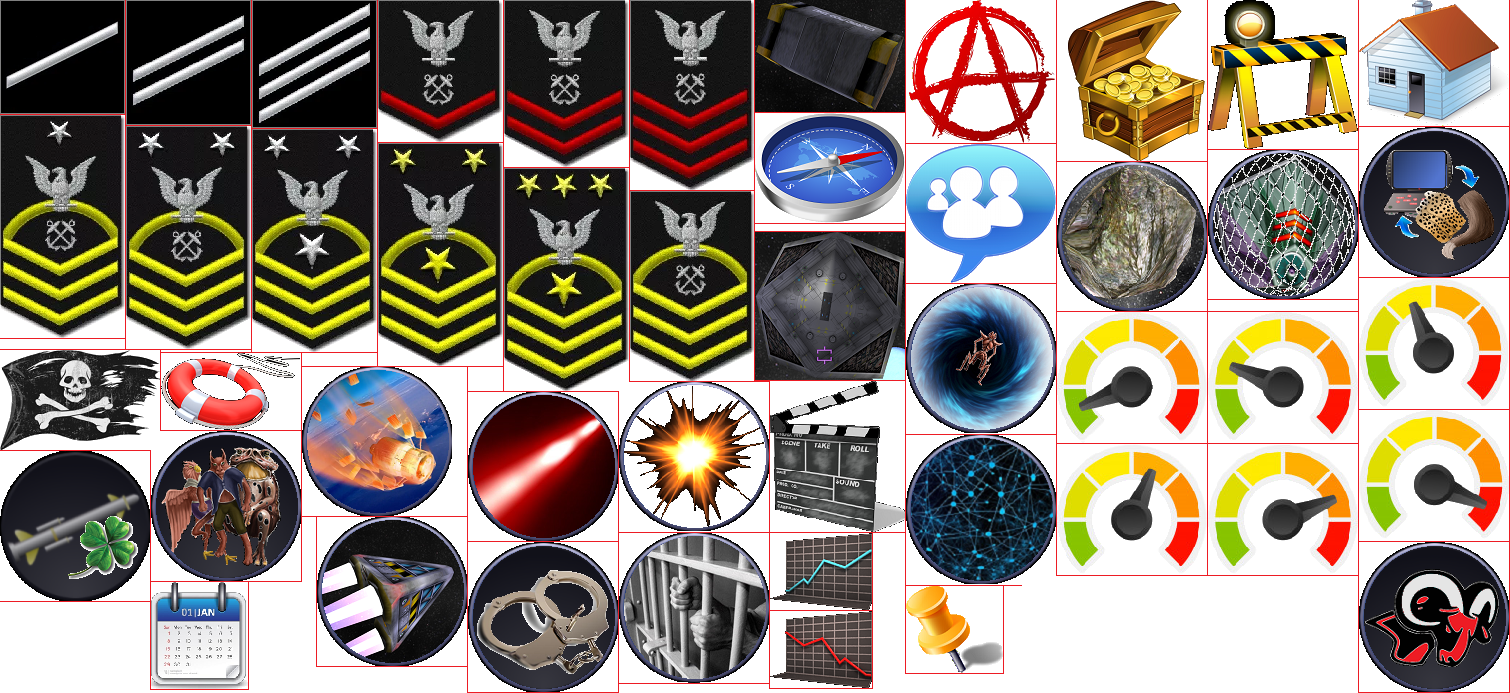
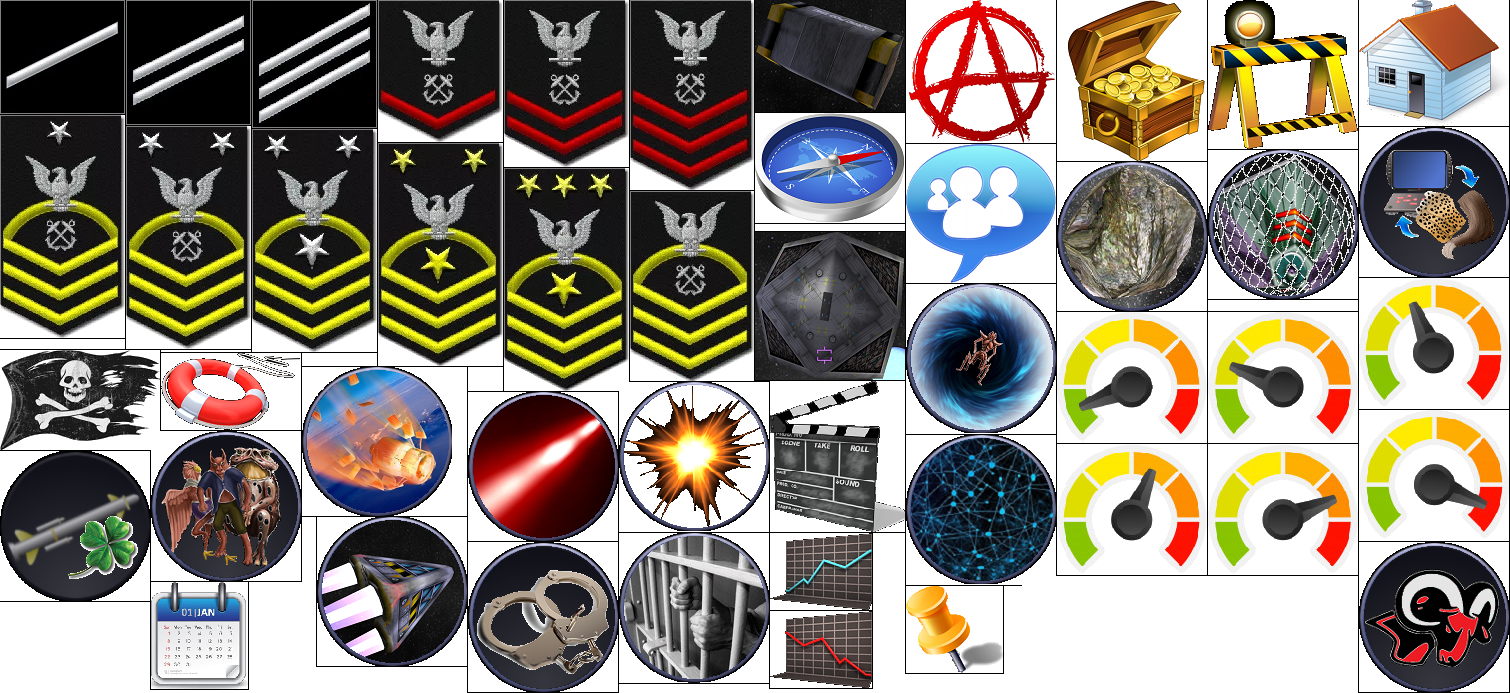
- fixed: Appearance of inhabitant image on planet screen - fixed: Appearance of medal images on trophies screen

Changed region(s): [[0.996, 0.0, 1.0, 1.0], [0.8715, 0.4242, 0.9026, 0.4545]]

diff --git a/src/de/phbouillon/android/games/alite/screens/canvas/AchievementsScreen.java b/src/de/phbouillon/android/games/alite/screens/canvas/AchievementsScreen.java
@@ -23,6 +23,7 @@ import android.graphics.Point;
 import de.phbouillon.android.framework.Graphics;
 import de.phbouillon.android.framework.Input.TouchEvent;
 import de.phbouillon.android.framework.Pixmap;
+import de.phbouillon.android.framework.impl.AndroidGame;
 import de.phbouillon.android.framework.impl.ColorFilterGenerator;
 import de.phbouillon.android.games.alite.*;
 import de.phbouillon.android.games.alite.colors.AliteColor;
@@ -229,7 +230,7 @@ public class AchievementsScreen extends AliteScreen {
 			SpriteData data = Alite.get().getTextureManager().getSprite(TEXTURE_FILE, spriteName);
 			if (data != null) {
 				if (!pics.containsKey(spriteName)) {
-					pics.put(spriteName, getImagePart(data, "medals",  spriteName, -1, -1));
+					pics.put(spriteName, getImagePart(data, "medals",  spriteName));
 				}
 				return pics.get(spriteName);
 			}
@@ -238,23 +239,25 @@ public class AchievementsScreen extends AliteScreen {
 		return pics.get(achieved ? "trophy" : ICON_GRAY_TROPHY);
 	}
 
-	private Pixmap getImagePart(SpriteData data, String textureName, String spriteName, int width, int height) {
+	private Pixmap getImagePart(SpriteData data, String textureName, String spriteName) {
 		Pixmap pixmap = pics.get(textureName);
-		AliteLog.d("getImagePart", textureName + ":" + spriteName + " (" + data.x * pixmap.getWidth() +
-			"," +  data.y * pixmap.getHeight() + ", "  + data.origWidth + "," + data.origHeight + ")");
-		Pixmap medal = game.getGraphics().newPixmap(Bitmap.createBitmap(pixmap.getBitmap(),
-			(int) (data.x * pixmap.getWidth()), (int) (data.y * pixmap.getHeight()),
-			(int) data.origWidth, (int) data.origHeight), spriteName);
-		if (width != -1 && height != -1) {
-			medal = getResizedPixmapPart(medal, 0, 0, spriteName, width, height);
-		}
-		return medal;
+		int x = (int) (data.x * pixmap.getWidth() + 0.99f);
+		int y = (int) (data.y * pixmap.getHeight() + 0.99f);
+		int w = (int) (data.origWidth);
+		int h = (int) (data.origHeight);
+		Bitmap b = pixmap.getBitmap();
+		AliteLog.d("getImagePart", textureName + ":" + spriteName + " (" + x + "," +  y + ", " +
+			w + "," + h + ") (" + b.getWidth() + "," + b.getHeight() + ")");
+		b = createScaledBitmap(b, x, y, w, h);
+		return game.getGraphics().newPixmap(b, spriteName, (int) (b.getWidth() / AndroidGame.scaleFactor),
+			(int) (b.getHeight() / AndroidGame.scaleFactor));
 	}
 
 	private Pixmap getFromButtons(String spriteName) {
 		if (!pics.containsKey(spriteName)) {
-			pics.put(spriteName, getImagePart(Alite.get().getTextureManager().getSprite(AliteButtons.TEXTURE_FILE, spriteName),
-				"buttons",  spriteName, 150, 150));
+			pics.put(spriteName, getResizedPixmapPart(getImagePart(Alite.get().getTextureManager().
+				getSprite(AliteButtons.TEXTURE_FILE, spriteName), "buttons",  spriteName),
+				0, 0, spriteName, 150, 150));
 		}
 		return pics.get(spriteName);
 	}
@@ -310,10 +313,11 @@ public class AchievementsScreen extends AliteScreen {
 			Alite.get().getTextureManager().addTexture(AliteButtons.TEXTURE_FILE);
 			pics.put("buttons", game.getGraphics().newPixmap(AliteButtons.TEXTURE_FILE));
 
-			Pixmap p = game.getGraphics().newPixmap(Bitmap.createBitmap(Assets.achievementsIcon.getBitmap(),
+			Pixmap p = game.getGraphics().newPixmap(createScaledBitmap(Assets.achievementsIcon.getBitmap(),
 				36, 14, 126, 128), "medal_trophy");
 			pics.put("trophy", p);
-			p = game.getGraphics().newPixmap(p.getBitmap(), ICON_GRAY_TROPHY);
+			p = game.getGraphics().newPixmap(p.getBitmap(), ICON_GRAY_TROPHY,
+				(int)(p.getWidth() / AndroidGame.scaleFactor), (int)(p.getHeight() / AndroidGame.scaleFactor));
 			pics.put(ICON_GRAY_TROPHY, p);
 			game.getGraphics().applyFilterToPixmap(p, ColorFilterGenerator.adjustColor(-100, 0)); // grayscale
 			addPictures("ext_new");
@@ -379,8 +383,13 @@ public class AchievementsScreen extends AliteScreen {
 
 	private Pixmap getResizedPixmapRect(Pixmap pixmap, int x, int y, int width, int height,
 			String name, int destWidth, int destHeight) {
-		return game.getGraphics().newPixmap(Bitmap.createBitmap(pixmap.getBitmap(), x, y, width, height),
+		return game.getGraphics().newPixmap(createScaledBitmap(pixmap.getBitmap(), x, y, width, height),
 			name, destWidth, destHeight);
+	}
+
+	private Bitmap createScaledBitmap(Bitmap bitmap, int x, int y, int width, int height) {
+		return Bitmap.createBitmap(bitmap, (int) (x * AndroidGame.scaleFactor), (int) (y * AndroidGame.scaleFactor),
+			(int) (width * AndroidGame.scaleFactor), (int) (height * AndroidGame.scaleFactor));
 	}
 
 	@Override

diff --git a/src/de/phbouillon/android/games/alite/screens/canvas/PlanetScreen.java b/src/de/phbouillon/android/games/alite/screens/canvas/PlanetScreen.java
@@ -25,6 +25,7 @@ import android.graphics.Paint;
 import android.text.format.DateUtils;
 import de.phbouillon.android.framework.Graphics;
 import de.phbouillon.android.framework.Pixmap;
+import de.phbouillon.android.framework.impl.AndroidGame;
 import de.phbouillon.android.framework.impl.ColorFilterGenerator;
 import de.phbouillon.android.framework.math.Vector3f;
 import de.phbouillon.android.games.alite.*;
@@ -128,44 +129,52 @@ public class PlanetScreen extends AliteScreen {
 			if (inhabitantGenerationStep == 0 && inhabitantLayer == null) {
 				initImage();
 				composePart(g.newPixmap("alien_icons/treeard.png"), null);
+				finishImage();
 			}
-		} else {
-			String basePath = "alien_icons/" + getRace(inhabitantCode.charAt(SystemData.INHABITANT_INDEX_TYPE)) +
-				getType(inhabitantCode.charAt(SystemData.INHABITANT_INDEX_APPEARANCE));
-			if (inhabitantGenerationStep == 0 && inhabitantLayer == null) {
-				initImage();
-				composePart(g.newPixmap(basePath + "base.png"),
-					adjustColor(inhabitantCode.charAt(SystemData.INHABITANT_INDEX_COLOR)));
-			} else if (inhabitantGenerationStep == 1) {
-				composePart(g.newPixmap(basePath + "details.png"), null);
-			}
+			return;
 		}
-		if (inhabitantGenerationStep == 2) {
-			inhabitantLayer = game.getGraphics().newPixmap(composedImage, "inhabitantImage");
-			inhabitantGenerationStep = -1;
+
+		String basePath = "alien_icons/" + getRace(inhabitantCode.charAt(SystemData.INHABITANT_INDEX_TYPE)) +
+			getType(inhabitantCode.charAt(SystemData.INHABITANT_INDEX_APPEARANCE));
+		if (inhabitantGenerationStep == 0 && inhabitantLayer == null) {
+			initImage();
+			composePart(g.newPixmap(basePath + "base.png"),
+				adjustColor(inhabitantCode.charAt(SystemData.INHABITANT_INDEX_COLOR)));
+		} else if (inhabitantGenerationStep == 1) {
+			composePart(g.newPixmap(basePath + "details.png"), null);
+		} else if (inhabitantGenerationStep == 2) {
+			finishImage();
 		}
 		if (inhabitantGenerationStep >= 0) {
 			inhabitantGenerationStep++;
 		}
 	}
 
+	private void finishImage() {
+		inhabitantLayer = game.getGraphics().newPixmap(composedImage, "inhabitantImage",
+			(int)(composedImage.getWidth() / AndroidGame.scaleFactor), (int)(composedImage.getHeight() / AndroidGame.scaleFactor));
+		inhabitantGenerationStep = -1;
+	}
+
 	public static Bitmap computeImage(String inhabitantCode) {
 		PlanetScreen screen = new PlanetScreen();
 		screen.addPictures(BACKGROUND);
+		disposeInhabitantLayers();
 		if (inhabitantCode.charAt(SystemData.INHABITANT_INDEX_RACE) != SystemData.INHABITANT_RACE_HUMAN) {
 			screen.inhabitantGenerationStep = 0;
-			for (int i = 0; i <= 2; i++) {
+			while (screen.inhabitantGenerationStep >= 0) {
 				screen.computeAlienImage(inhabitantCode);
 			}
 		} else {
 			screen.inhabitantGenerationStep = 1;
-			for (int i = 1; i <= 14; i++) {
+			while (screen.inhabitantGenerationStep >= 0) {
 				screen.computeHumanImage(inhabitantCode);
 			}
 		}
 		Pixmap background = screen.pics.get(BACKGROUND);
 		Bitmap bitmap = Bitmap.createBitmap(inhabitantLayer.getBitmap(), 0, 0,
-			background.getWidth(), background.getHeight());
+			(int) (background.getWidth() * AndroidGame.scaleFactor),
+			(int) (background.getHeight() * AndroidGame.scaleFactor));
 		screen.dispose();
 		return bitmap;
 	}
@@ -355,13 +364,11 @@ public class PlanetScreen extends AliteScreen {
 			case 10: composePart(load("mouths",   hig_subDir, hig_mouthType   + 1, 1), null); break;
 			case 11: composePart(load("mouths",   hig_subDir, hig_mouthType   + 1, 2), hig_lipModifier); break;
 			case 12: composePart(load("eyebrows", hig_subDir, hig_eyebrowType + 1, 1), hig_hairModifier); break;
-			case 13: composePart(load("hair",     hig_subDir, hig_hairType    + 1, 2), hig_hairModifier); break;
+			case 13: composePart(load("hair",     hig_subDir, hig_hairType    + 1, 2), hig_hairModifier);
+				finishImage();
+				return;
 		}
 		inhabitantGenerationStep++;
-		if (inhabitantGenerationStep == 14) {
-			inhabitantLayer = game.getGraphics().newPixmap(composedImage, "inhabitantImage");
-			inhabitantGenerationStep = -1;
-		}
 	}
 
 	private void displayInhabitants() {
@@ -482,7 +489,6 @@ public class PlanetScreen extends AliteScreen {
 
 	@Override
 	public void loadAssets() {
-		Graphics g = game.getGraphics();
 		addPictures("cobra_right", BACKGROUND);
 		super.loadAssets();
 	}

diff --git a/src/de/phbouillon/android/framework/impl/AndroidGraphics.java b/src/de/phbouillon/android/framework/impl/AndroidGraphics.java
@@ -45,7 +45,7 @@ public class AndroidGraphics implements Graphics {
 	private final Canvas converterCanvas = new Canvas();
 	private final Paint paint = new Paint();
 	private final Canvas canvas = new Canvas();
-	private final Paint filterPaint = new Paint();
+	private final Paint filterPaint = new Paint(Paint.FILTER_BITMAP_FLAG);
 	private final Matrix scaleMatrix = new Matrix();
 	private final Options options = new Options();
 	private final FileIO fileIO;
@@ -59,7 +59,6 @@ public class AndroidGraphics implements Graphics {
 		circleBuffer = GlUtils.allocateFloatBuffer(64 * 8);
 		colorBuffer = GlUtils.allocateFloatBuffer(4 * 16);
 		this.textureManager = textureManager;
-		filterPaint.setFilterBitmap(true);
 	}
 
 	@Override
@@ -89,8 +88,6 @@ public class AndroidGraphics implements Graphics {
 	}
 
 	private Bitmap loadBitmap(String fileName) {
-		options.inPreferredConfig = Settings.colorDepth == 1 ? Config.ARGB_8888 : Config.ARGB_4444;
-		options.inSampleSize = Settings.textureLevel;
 		try (InputStream is = fileIO.readPrivateFile(fileName)) {
 			return loadBitmap(fileName, is);
 		} catch (IOException ignored) {
@@ -204,24 +201,22 @@ public class AndroidGraphics implements Graphics {
 
 	@Override
 	public void drawRect(int x, int y, int width, int height, int color) {
-		int x2 = transX(x + width);
-		int y2 = transY(y + height);
-		x = transX(x);
-		y = transY(y);
-		int ty = y < 0 ? 0 : y;
-		if (y2 < 0) {
-			return;
-		}
-
 		GLES11.glLineWidth(scaleFactor);
 		setColor(color);
-		setRectBuffer(x, ty, x2, y2);
+		if (!setRectBuffer(x, y, width, height)) return;
 		GLES11.glVertexPointer(2, GLES11.GL_FLOAT, 0, rectBuffer);
 		GLES11.glDrawArrays(GLES11.GL_LINE_LOOP, 0, 4);
 		GLES11.glLineWidth(1);
 	}
 
-	private void setRectBuffer(int left, int top, int right, int bottom) {
+	private boolean setRectBuffer(int left, int top, int width, int height) {
+		int bottom = transY(top + height);
+		if (bottom < 0) {
+			return false;
+		}
+		int right = transX(left + width);
+		left = transX(left);
+		top = transY(top);
 		rectBuffer.clear();
 		rectBuffer.put(left);
 		rectBuffer.put(top);
@@ -232,6 +227,7 @@ public class AndroidGraphics implements Graphics {
 		rectBuffer.put(left);
 		rectBuffer.put(bottom);
 		rectBuffer.position(0);
+		return true;
 	}
 
 	@Override
@@ -246,17 +242,8 @@ public class AndroidGraphics implements Graphics {
 
 	@Override
 	public void fillRect(int x, int y, int width, int height, int color) {
-		int x2 = transX(x + width);
-		int y2 = transY(y + height);
-		x = transX(x);
-		y = transY(y);
-		int ty = y < 0 ? 0 : y;
-		if (y2 < 0) {
-			return;
-		}
-
 		setColor(color);
-		setRectBuffer(x, ty, x2, y2);
+		if (!setRectBuffer(x, y, width, height)) return;
 		GLES11.glVertexPointer(2, GLES11.GL_FLOAT, 0, rectBuffer);
 		GLES11.glDrawArrays(GLES11.GL_TRIANGLE_FAN, 0, 4);
 	}
@@ -272,18 +259,9 @@ public class AndroidGraphics implements Graphics {
 	}
 
 	private void gradientRect(int x, int y, int width, int height, boolean horizontal, int color1, int color2) {
-		int x2 = transX(x + width);
-		int y2 = transY(y + height);
-		x = transX(x);
-		y = transY(y);
-		int ty = y < 0 ? 0 : y;
-		if (y2 < 0) {
-			return;
-		}
-
 		GLES11.glEnableClientState(GLES11.GL_VERTEX_ARRAY);
 		GLES11.glEnableClientState(GLES11.GL_COLOR_ARRAY);
-		setRectBuffer(x, ty, x2, y2);
+		if (!setRectBuffer(x, y, width, height)) return;
 		colorBuffer.clear();
 		putToColorBuffer(color1);
 		putToColorBuffer(horizontal ? color2 : color1);
